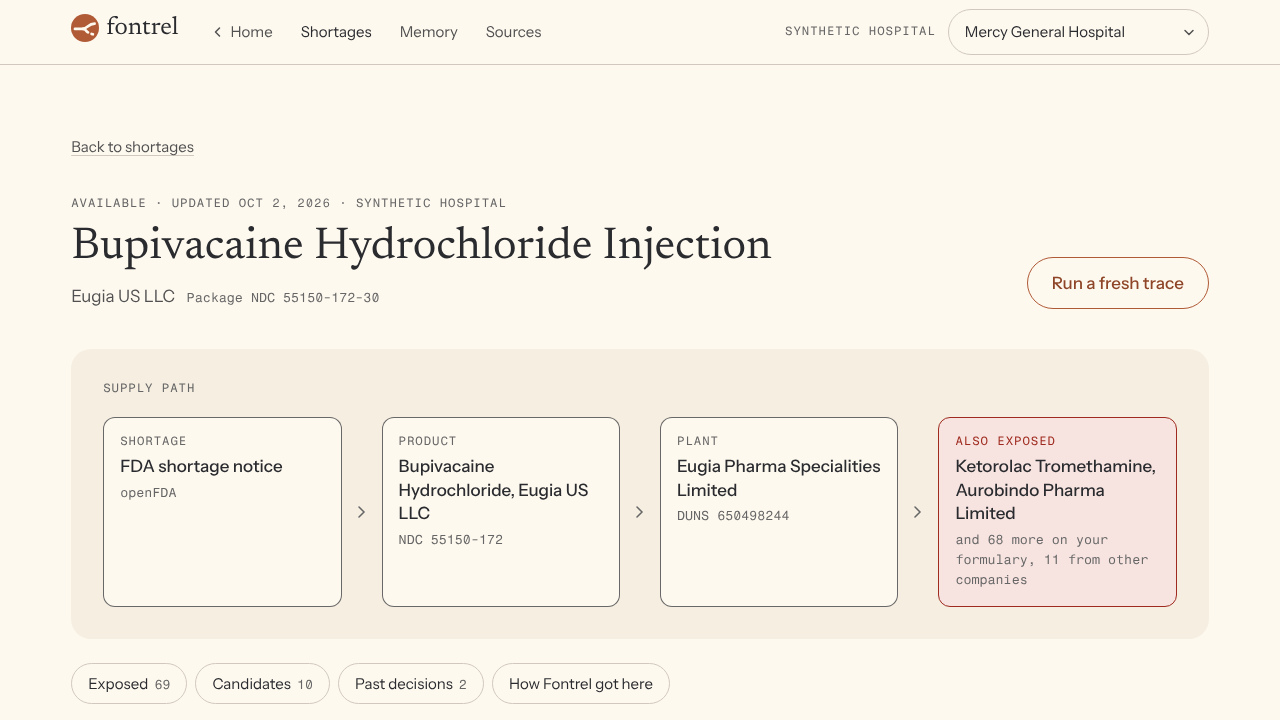
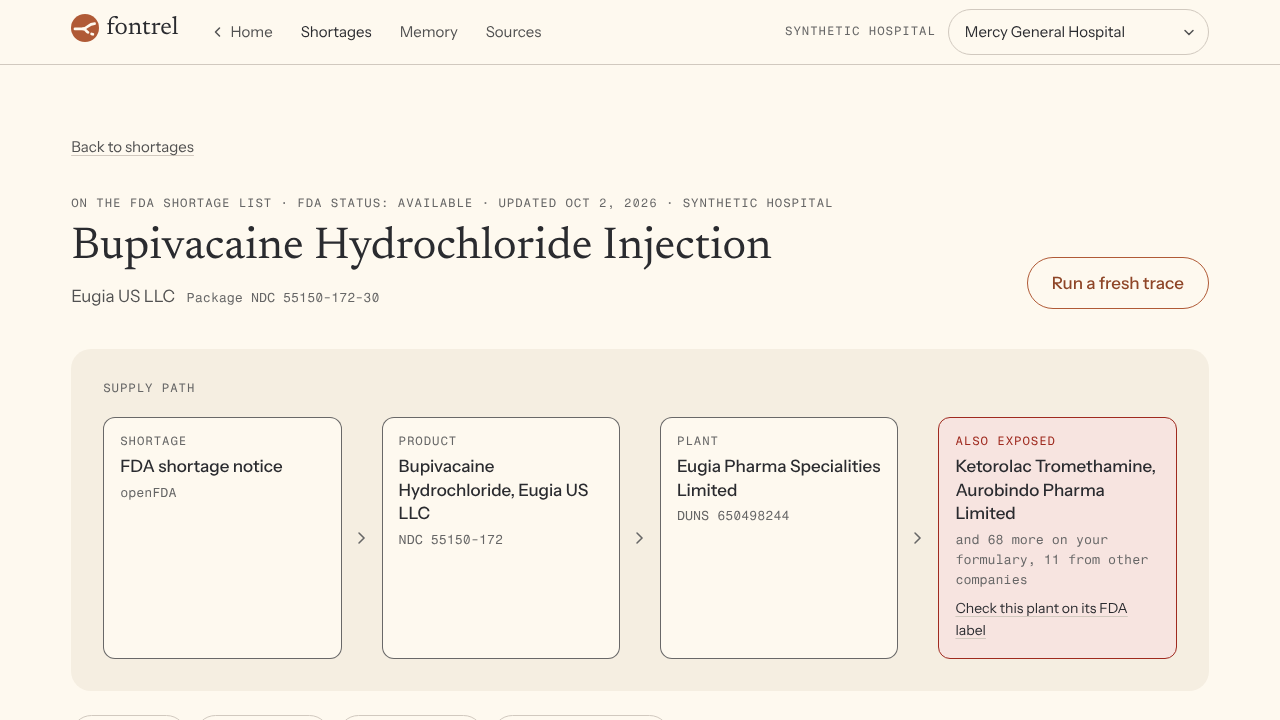
Add demo memory reset, label link on the supply path, and clearer FDA status
- ingest.reset_demo removes decisions made in the app and keeps the seeded memory,
  so saved traces stay valid
- The also-exposed card links to the exposed product's DailyMed label
- The trace header says the record is on the FDA shortage list and shows the FDA status
- README: why FalkorDB, secondary queries collapsed, nightly reset

diff --git a/frontend/src/app/app/trace/[...id]/PathChips.tsx b/frontend/src/app/app/trace/[...id]/PathChips.tsx
@@ -1,6 +1,6 @@
 import { sortExposed, type ExposedRow, type Step } from "@/lib/api";
 
-type Chip = { label: string; title: string; sub: string; tone: "ink" | "exposed" | "muted" };
+type Chip = { label: string; title: string; sub: string; tone: "ink" | "exposed" | "muted"; href?: string };
 
 function title(s: string) {
   return s.replace(/\w\S*/g, (w) => w.charAt(0).toUpperCase() + w.slice(1).toLowerCase());
@@ -35,6 +35,9 @@ function buildChips(steps: Step[]): (Chip | null)[] {
             ? `and ${products.size - 1} more on your formulary, ${others.length} from other companies`
             : `NDC ${lead.product_ndc}`,
         tone: "exposed",
+        href: lead.exposed_label_setid
+          ? `https://dailymed.nlm.nih.gov/dailymed/drugInfo.cfm?setid=${lead.exposed_label_setid}`
+          : undefined,
       }
     : { label: "Also exposed", title: "Nothing else on your formulary", sub: "No other product shares this plant", tone: "muted" };
   return chips;
@@ -64,6 +67,11 @@ export function PathChips({ steps, running }: { steps: Step[]; running: boolean 
                 <p className={`label ${c.tone === "exposed" ? "!text-exposed" : ""}`}>{c.label}</p>
                 <p className="mt-1.5 font-medium leading-snug">{c.title}</p>
                 <p className="mt-1 font-mono text-[13px] text-ink-3">{c.sub}</p>
+                {c.href && (
+                  <a className="link mt-2 inline-block text-[14px]" href={c.href} target="_blank" rel="noreferrer">
+                    Check this plant on its FDA label<span className="sr-only"> (opens DailyMed in a new tab)</span>
+                  </a>
+                )}
               </div>
             ) : (
               <div className={`rounded-[12px] border-[1.5px] border-dashed border-line p-4 ${running ? "motion-safe:animate-pulse" : ""}`}>

diff --git a/frontend/src/app/app/trace/[...id]/Trace.tsx b/frontend/src/app/app/trace/[...id]/Trace.tsx
@@ -145,7 +145,7 @@ export function Trace() {
         <div className="mt-8 flex flex-col gap-6 lg:flex-row lg:items-end lg:justify-between">
           <div>
             <p className="label">
-              {head.s.availability} · Updated {formatDate(head.s.updated)} · Synthetic hospital
+              On the FDA shortage list · FDA status: {head.s.availability} · Updated {formatDate(head.s.updated)} · Synthetic hospital
             </p>
             <h1 className="h2 mt-3">{head.s.shortage}</h1>
             <p className="mt-3 text-ink-2">

diff --git a/backend/tests/test_api.py b/backend/tests/test_api.py
@@ -247,3 +247,17 @@ def test_rejecting_a_candidate_moves_it_down_next_time(cleanup):
     assert after.index(top["product_ndc"]) > max(after.index(p) for p in peers)
     row = next(r for r in tools.find_substitutes("mercy", sid).rows if r["product_ndc"] == top["product_ndc"])
     assert row["prior_decision"]["action"] == "rejected"
+
+
+def test_demo_reset_keeps_seed_and_restores_memory_version():
+    from fontrel import cache
+    from ingest import reset_demo
+    before = cache.memory_version("mercy")
+    sid = anchor()
+    sub = next(r["id"] for r in c.get(f"/api/graph/subgraph?tenant=mercy&shortage_id={sid}").json()["nodes"]
+               if r.get("role") == "substitute")
+    c.post("/api/decisions", json={"tenant": "mercy", "shortage_id": sid, "substitute_ndc": sub, "action": "rejected"})
+    assert cache.memory_version("mercy") != before
+    assert reset_demo.reset("mercy") == 1
+    assert cache.memory_version("mercy") == before
+    assert len(c.get("/api/memory?tenant=mercy").json()) == 2

diff --git a/backend/ingest/reset_demo.py b/backend/ingest/reset_demo.py
@@ -1,0 +1,22 @@
+"""Remove decisions made through the app, keeping the synthetic seed. Saved traces stay valid
+because the hospital's memory returns to the seeded version. Usage: python -m ingest.reset_demo"""
+from fontrel import graph
+
+
+def reset(tenant_id: str) -> int:
+    g = graph.tenant(tenant_id)
+    removed = g.query("""MATCH (d:Decision) WHERE d.synthetic = false
+        DETACH DELETE d RETURN count(d)""").result_set[0][0]
+    g.query("MATCH (e:Episode) WHERE e.synthetic IS NULL AND NOT (e)<-[:IN]-(:Decision) DETACH DELETE e")
+    g.query("""MATCH (f:FormularyItem {added_by_decision: true})
+        WHERE NOT (f)<-[:CHOSE]-(:Decision) AND NOT (f)<-[:FOR]-(:Episode) DETACH DELETE f""")
+    return removed
+
+
+def main() -> None:
+    for t in graph.list_tenants():
+        print(f"tenant {t}: removed {reset(t)} decisions made in the app")
+
+
+if __name__ == "__main__":
+    main()

diff --git a/README.md b/README.md
@@ -134,7 +134,7 @@ cd backend
 python -m pytest -q
 ```
 
-67 tests. Most run against a live FalkorDB loaded with real FDA data, and the agent tests replace the AI model with a scripted stand-in. They cover data loading and reloading, strength matching, every query, tenant separation, the agent's guardrails, cancellation, the trace cache and the API. Because they use live FDA data, a test can fail if a record it relies on leaves the FDA list.
+68 tests. Most run against a live FalkorDB loaded with real FDA data, and the agent tests replace the AI model with a scripted stand-in. They cover data loading and reloading, strength matching, every query, tenant separation, the agent's guardrails, cancellation, the trace cache and the API. Because they use live FDA data, a test can fail if a record it relies on leaves the FDA list.
 
 ## Deploy
 
@@ -176,6 +176,12 @@ docker compose -f deploy/docker-compose.coolify.yml --env-file .env up -d --buil
 docker compose -f deploy/docker-compose.coolify.yml exec api sh -c "python -m ingest.run && python -m ingest.synth"
 ```
 
+For a public demo, clear visitor decisions nightly with a cron entry on the server (run `crontab -e`, use the compose file you deployed with):
+
+```
+0 3 * * * cd /root/fontrel && docker compose -f deploy/docker-compose.yml exec -T api python -m ingest.reset_demo
+```
+
 ### Frontend on Vercel
 
 Import the repository in Vercel, set the root directory to `frontend`, and add these environment variables:
@@ -186,6 +192,13 @@ Import the repository in Vercel, set the root directory to `frontend`, and add t
 | `SITE_URL` | your Vercel URL, used for link previews |
 
 The app forwards `/api/*` to `BACKEND_URL`, so the browser only ever talks to Vercel.
+
+## Why FalkorDB
+
+- **One graph per hospital.** Each hospital's formulary, decisions and saved traces live in their own FalkorDB graph (`tenant_mercy`, `tenant_lakeside`). The shared `supply` graph holds public FDA data, and the two join on product NDC. Separating hospitals takes no filtering code, and no query can reach across them.
+- **Multi-hop paths are the product.** Shortage, product, plant, then every other product at that plant is one Cypher pattern. In a table database it's a chain of joins across 4,476 products and 7,149 label-to-plant links.
+- **Graph algorithms in the database.** `algo.pageRank` ranks plants by how many products depend on them, and `algo.WCC` groups plants that share products. Both run inside FalkorDB under its 1,000 ms query timeout.
+- **Every step is visible.** The trace screen shows each Cypher query, its row count and its time in FalkorDB.
 
 ## How it works
 
@@ -262,19 +275,6 @@ RETURN DISTINCT other.product_ndc AS product_ndc, other.generic_name AS product,
 ORDER BY already_in_shortage, labeler
 ```
 
-**Q2. Formulary products sharing an ingredient, with registered suppliers**
-
-```cypher
-MATCH (s:Shortage {id: $sid})-[:AFFECTS]->(p:Product)-[:CONTAINS]->(i:Ingredient)
-OPTIONAL MATCH (i)<-[c:CANDIDATE_SUPPLIER]-(sup:Supplier)
-WITH p, i, count(DISTINCT sup) AS supplier_count, collect(DISTINCT c.dmf)[0..5] AS sample_dmfs
-MATCH (i)<-[:CONTAINS]-(other:Product)
-WHERE other.product_ndc IN $formulary AND other.product_ndc <> p.product_ndc
-RETURN i.name AS ingredient, supplier_count, sample_dmfs,
-       collect(DISTINCT {product_ndc: other.product_ndc, product: other.generic_name,
-                         labeler: other.labeler}) AS formulary_products
-```
-
 **Q3. Candidate alternatives, compared with the shortage product's plants**
 
 ```cypher
@@ -303,6 +303,22 @@ RETURN substitute_ndc, last.action AS action, last.reason AS reason, last.outcom
 ```
 
 Each candidate is then labeled **shares a plant** (a shared plant was found), **no shared plant on record** (both products list manufacturing plants and none overlap) or **plant overlap unknown** (either label lists no plant). Within each group, candidates the hospital rejected before are listed lower.
+
+<details>
+<summary>Q2, Q4, Q5 and Q6: shared ingredients, plant ranking, plant groups and past decisions</summary>
+
+**Q2. Formulary products sharing an ingredient, with registered suppliers**
+
+```cypher
+MATCH (s:Shortage {id: $sid})-[:AFFECTS]->(p:Product)-[:CONTAINS]->(i:Ingredient)
+OPTIONAL MATCH (i)<-[c:CANDIDATE_SUPPLIER]-(sup:Supplier)
+WITH p, i, count(DISTINCT sup) AS supplier_count, collect(DISTINCT c.dmf)[0..5] AS sample_dmfs
+MATCH (i)<-[:CONTAINS]-(other:Product)
+WHERE other.product_ndc IN $formulary AND other.product_ndc <> p.product_ndc
+RETURN i.name AS ingredient, supplier_count, sample_dmfs,
+       collect(DISTINCT {product_ndc: other.product_ndc, product: other.generic_name,
+                         labeler: other.labeler}) AS formulary_products
+```
 
 **Q4. Plants ranked by dependence** (PageRank)
 
@@ -350,7 +366,9 @@ RETURN e.id AS episode, e.shortage_label AS episode_label, e.opened AS opened, e
 ORDER BY e.opened DESC, d.id
 ```
 
-The only write in the product is a pharmacist's decision, `POST /api/decisions`. It uses `MERGE`, so saving the same decision twice updates one node instead of creating two.
+</details>
+
+The only write in the product is a pharmacist's decision, `POST /api/decisions`. It uses `MERGE`, so saving the same decision twice updates one node instead of creating two. To clear decisions made through the app and return both hospitals to their seeded memory, run `python -m ingest.reset_demo`. Saved traces stay valid after a reset.
 
 ## API
 
@@ -374,7 +392,7 @@ The only write in the product is a pharmacist's decision, `POST /api/decisions`.
 backend/
   fontrel/    API, agent loop, graph tools, trace cache
   ingest/     data loaders for openFDA, DailyMed and the DMF list, plus the synthetic hospitals
-  tests/      67 tests, most against a live FalkorDB
+  tests/      68 tests, most against a live FalkorDB
 frontend/
   src/app/        landing page and the app screens
   src/components/ shared header, logo and landing sections
@@ -409,6 +427,7 @@ Counts change slightly whenever the data is reloaded.
 
 - Fontrel supports a pharmacist's decision. It doesn't choose a drug or a dose, and a candidate alternative is not a confirmed therapeutic equivalent. The FDA [Orange Book](https://www.fda.gov/drugs/development-approval-process-drugs/orange-book-preface) sets that bar.
 - A shared plant means shared exposure to review. It doesn't prove the plant caused the shortage or that other products will run short.
+- The public demo is shared, so a decision one visitor saves is visible to the next. The live server clears app-made decisions every night with `ingest.reset_demo`.
 - There is no sign-in. Each hospital's data lives in its own graph and the agent only reads the hospital it was started for, but anyone using this demo can switch hospitals. A real deployment needs sign-in before each hospital's decisions are private.
 - It doesn't forecast shortages. It works from what is filed today.
 - Plant data is only as complete as the FDA labels. Products with no listed plant are shown as "no site on file", never as safe.
